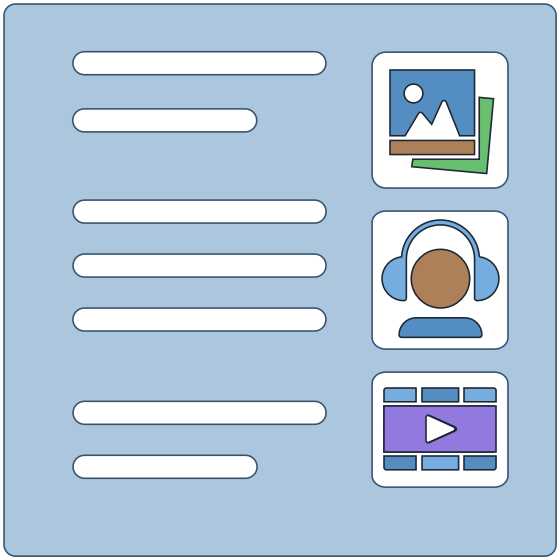
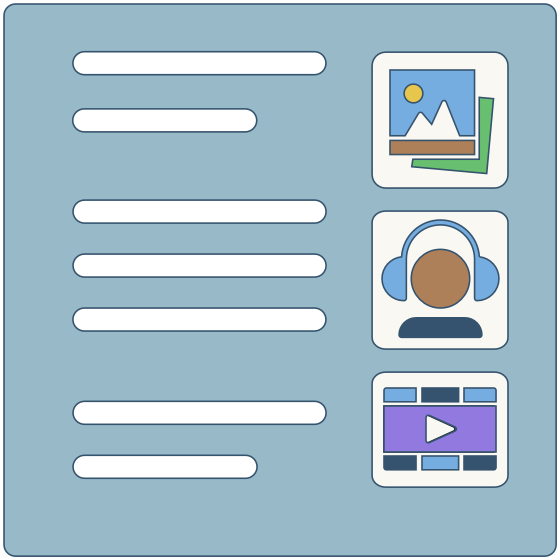
Menu and secondmenu connection.

Changed region(s): [[0.6679, 0.6679, 0.9107, 0.85], [0.6679, 0.1214, 0.8804, 0.3036], [0.6982, 0.3946, 0.8804, 0.6071]]

diff --git a/assets/css/main.css b/assets/css/main.css
@@ -131,20 +131,13 @@ body {
 
 .menu .active {
   color: #02284b;
+  background-color: #ddd;
 }
 
 .menu li {
   list-style: none;
   position: relative;
   float: left;
-}
-
-.submenu {
-  display: -webkit-flex;
-  display: flex;
-  -webkit-flex-flow: row wrap;
-  justify-content: center;
-  padding: 2em 1em;
 }
 
 .secondmenu {
@@ -155,13 +148,15 @@ body {
 .secondmenu> ul{
   display: inline-block;
   list-style: none;
+  border-top: 1px solid #ddd;
   border-bottom: 1px solid #ddd;
   font-size: .7em;
+  background-color: #ddd;
 }
 
 .secondmenu li {
   display: inline-block;
-  padding: .75em 0 .75em 3em;
+  padding: .75em 1em .75em 3em;
 }
 
 .secondmenu a:hover,
@@ -294,13 +289,19 @@ section {
   display: flex;
   -webkit-flex-flow: row wrap;
   justify-content: center;
-  padding: 2em 1em;
+  padding: 2em;
 }
 
 .action-items > div {
   flex: 0 0 50%;
   padding: 1em 1.5em;
   border: 0px solid #DDDDDD;
+}
+
+.action-items img{
+  width: 70px;
+  display: inline-block;
+  margin-right: 0.5em;
 }
 
 .action-items:nth-child(even) {
@@ -336,23 +337,6 @@ section {
 
 /* columns
 -------------------------------------------------- */
-.what {
-  max-width: 50em;
-  margin: auto;
-  padding: 1.5em 0 0 0;
-}
-
-.greyblue {
-  padding: 2em;
-  background-color: #98bac8;
-  color: #F9F8F2;
-}
-
-.lightblue {
-  padding: 2em;
-  background-color: #d0e4f4;
-  color: #555;
-}
 
 .flex-container {
     display: -webkit-flex;
@@ -372,7 +356,11 @@ section {
   display: flex;
   -webkit-flex-flow: row wrap;
   justify-content: center;
-  padding: 2em 1em;
+}
+
+figure img {
+  width: 100%;
+  padding: 0 1.5em;
 }
 
 .flip-flop:nth-child(odd) {
@@ -380,17 +368,13 @@ section {
 }
 
 .flip-flop > figure {
-  flex: 0 1 15em;
+  flex: 0 1 18em;
   position: relative;
 }
 
-figure img {
-  width: 100%;
-}
-
 .flip-flop > div {
-  flex: 0 1 40em;
-  padding: 0 2em;
+  flex: 0 1 45em;
+  padding: 2em 0;
 }
 
 @media screen and (max-width: 40em) {
@@ -449,6 +433,7 @@ ul.toc {
 -------------------------------------------------- */
 .footer {
   font-size: .8em;
+  padding: 2em 0;
 }
 .copyright {
   float: left;

diff --git a/site/templates/home.php b/site/templates/home.php
@@ -4,7 +4,7 @@
   <section class="action-items site">
     <?php foreach($pages->find('action')->children() as $action): ?>
       <div>
-        <h2><?php echo html($action->title()) ?></h2>
+        <h2><?php if($image = $action->image()): ?><img src="<?php echo $image->url() ?>" alt="Icon for <?php echo html($action->title()) ?>"><?php endif ?><?php echo html($action->title()) ?></h2>
         <h4><?php echo html($action->tagline()) ?></h4>
         <p><?php echo html($action->description()) ?></p>
         <a href="<?php echo $action->link() ?>"><h5>Learn more ></h5></a>
@@ -32,7 +32,7 @@
 
   <section>
     <h2 class="section_title"><span>Transform pedagogy in sustainability</span></h2>
-    <div class="what">
+    <div class="site">
     <p>Michigan Sustainability Cases (MSC) is an initiative aims at building a case-based curriculum for sustainability education, funded by a grant from Transforming Learning in the Third Century at the University of Michigan. <a href="#">Learn more about the MSC Initiative &gt;</a></p>
 
     <p>MSC also refers to the case products by Michigan Sustainability Cases Initiative. Each MSC tells a story. First, a challenging decision. Then, the key decision maker and main stakeholders. These are accompanied by audiovisual sources that provide diverse and in-depth insights to the case. Lastly, interactive learning exercises for students to analyze priorities and tradeoffs. MSCs provide an immersive and exploratory educational approach to teach practical skills in environmental sustainability. <a href="#">More about effectiveness of cases &gt;</a></p>

diff --git a/site/snippets/footer.php b/site/snippets/footer.php
@@ -1,4 +1,4 @@
-  <footer class="footer site cf" role="contentinfo">
+  <footer class="footer cf site" role="contentinfo">
 
     <div class="copyright">
       <?php echo $site->copyright()->kirbytext() ?>
